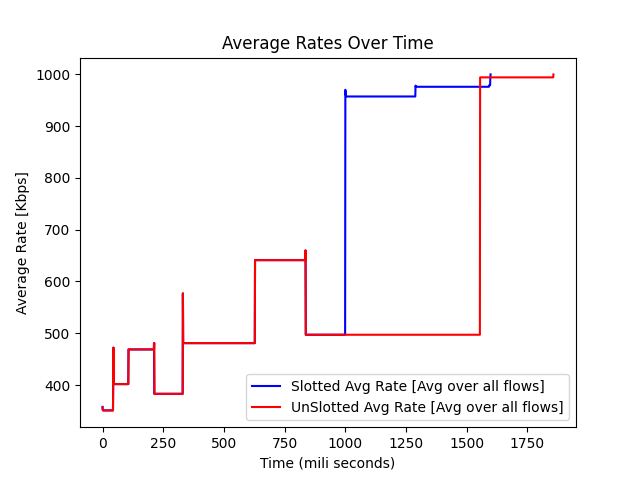
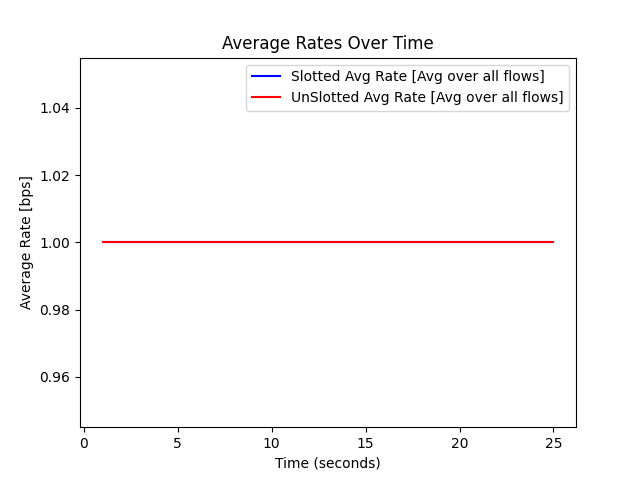
In this commit I have done the following: first,simulation is converted to work with time resolution, each time step simualte a graph transmit with duration of SimulatiomTimeResuliton, each hope in the graph is trasmiting as much as it can at a total length of the time  resolution, further more, the

diff --git a/DIAMOND/test/inference_vs_competitors_simple.py b/DIAMOND/test/inference_vs_competitors_simple.py
@@ -4,6 +4,7 @@ import os
 from datetime import datetime
 import shutil
 import matplotlib.pyplot as plt
+from scipy.interpolate import interp1d
 
 
 import sys
@@ -23,6 +24,12 @@ os.environ["PYTHONHASHSEED"] = str(SEED)
 if __name__ == "__main__":
     MODEL_PATH = os.path.join("DIAMOND", "pretrained", "model_20221113_212726_480.pt")
     reward_weights = dict(rate_weight=0.5, delay_weight=0, interference_weight=0, capacity_reduction_weight=0)
+
+    # ------------------------------------------------------------------------
+    Simulation_Time_Resolution = 1e-3       # miliseconds (i.e. each time step is a milisecond - this is the duration of each time step in [SEC])
+    BW_value_in_Hertz = 1#1e6                   # wanted BW in Hertz
+    slot_duration = 5                      # [SEC] 
+    Tot_num_of_timeslots = 5               # [num of time slots]
     #------------------------------------------------------------------------
 
     # # number of nodes
@@ -65,11 +72,12 @@ if __name__ == "__main__":
     #      (0.1, 0), (0.1, 0.01), (0.1, 0.02),
     #      (0.2, 0), (0.2, 0.01), (0.2, 0.02)]
    
-    P = [(0, 0), (0, 1), (0, 2),
-         (1, 0), (1, 1), (1, 2),
-         (2, 0), (2, 1), (2, 2)]
+    P = [(0, 0), (0, 100), (0, 200),
+         (100, 0), (100, 100), (100, 200),
+         (200, 0), (200, 100), (200, 200)]
+    
     # BW matrix
-    C = 1e3 * np.ones((N, N)) # in KiloHertz
+    C = BW_value_in_Hertz * np.ones((N, N)) * Simulation_Time_Resolution 
     #------------------------------------------------------------------------
 
 
@@ -78,15 +86,18 @@ if __name__ == "__main__":
 
     # flow demands in KiloByte
     F = [
-        {"source": 0, "destination": 8, "packets": 10 *1e3, "time_constrain": 10 , 'flow_idx': 0 },
-        {"source": 0, "destination": 7, "packets": 100 *1e3, "time_constrain": 10, 'flow_idx': 1}, #Packets [MegaBytes]
-        {"source": 0, "destination": 6, "packets": 500*1e3, "time_constrain": 10, 'flow_idx': 2}, #Packets [MegaBytes]
-        {"source": 0, "destination": 5, "packets": 1000*1e3, "time_constrain": 10, 'flow_idx': 3},
-        {"source": 0, "destination": 4, "packets": 700 *1e3, "time_constrain": 10 , 'flow_idx': 4 },
-        {"source": 0, "destination": 3, "packets": 300 *1e3, "time_constrain": 10, 'flow_idx': 5}, #Packets [MegaBytes]
-        {"source": 0, "destination": 2, "packets": 150*1e3, "time_constrain": 10, 'flow_idx': 6}, #Packets [MegaBytes]
-        {"source": 0, "destination": 1, "packets": 50*1e3, "time_constrain": 10, 'flow_idx': 7}
-    ]
+        {"source": 0, "destination": 8, "packets": 1000    , "time_constrain": 10 , 'flow_idx': 0 }  ]  
+    
+    # F = [
+    #     #{"source": 0, "destination": 8, "packets": 1000    *1e6, "time_constrain": 10 , 'flow_idx': 0 }#,
+    #     # {"source": 0, "destination": 7, "packets": 1000    *1e6, "time_constrain": 10, 'flow_idx': 1}#,         #Packets [in Bits]
+    #     # {"source": 0, "destination": 6, "packets": 500  *1e6, "time_constrain": 10, 'flow_idx': 2},         #Packets [in Bits]
+    #     # {"source": 0, "destination": 5, "packets": 1000 *1e6, "time_constrain": 10, 'flow_idx': 3},
+    #     # {"source": 0, "destination": 4, "packets": 700  *1e6, "time_constrain": 10 , 'flow_idx': 4 },
+    #     # {"source": 0, "destination": 3, "packets": 300  *1e6, "time_constrain": 10, 'flow_idx': 5},         #Packets [in Bits]
+    #     # {"source": 0, "destination": 2, "packets": 150  *1e6, "time_constrain": 10, 'flow_idx': 6},         #Packets [in Bits]
+    #     # {"source": 0, "destination": 1, "packets": 50   *1e6, "time_constrain": 10, 'flow_idx': 7}
+    # ]
 
     slotted_env = SlottedGraphEnvPower( adjacency_matrix=A,
                                         bandwidth_matrix=C,
@@ -96,13 +107,14 @@ if __name__ == "__main__":
                                         reward_weights=reward_weights,
                                         telescopic_reward = True,
                                         direction = 'minimize',
-                                        slot_duration = int(1 * 1e3),          # [in SEC ]
-                                        Tot_num_of_timeslots = 1000,         # [num of time slots]
+                                        slot_duration = int(slot_duration / Simulation_Time_Resolution),          # [in SEC ]
+                                        Tot_num_of_timeslots = Tot_num_of_timeslots,         # [num of time slots]
                                         render_mode = False,
                                         trx_power_mode='gain',
                                         channel_gain = 1,
                                         # channel_manual_gain = [100,200,3,400,500,600],
-                                        simualte_residauls = False)
+                                        simualte_residauls = True,
+                                        Simulation_Time_Resolution = Simulation_Time_Resolution)
 
     UNslotted_env = SlottedGraphEnvPower( adjacency_matrix=A,
                                         bandwidth_matrix=C,
@@ -112,13 +124,14 @@ if __name__ == "__main__":
                                         reward_weights=reward_weights,
                                         telescopic_reward = True,
                                         direction = 'minimize',
-                                        slot_duration=int(1000 * 1e3),          # [in SEC]
+                                        slot_duration = int( (slot_duration*Tot_num_of_timeslots) / Simulation_Time_Resolution),          # [in SEC]
                                         Tot_num_of_timeslots = 1, # [in Minutes]
                                         render_mode = False,
                                         trx_power_mode='gain',
                                         channel_gain = 1,
                                         # channel_manual_gain = [100,200,3,400,500,600],
-                                        simualte_residauls = False)    
+                                        simualte_residauls = False,
+                                        Simulation_Time_Resolution = Simulation_Time_Resolution)    
 
     slotted_diamond = SlottedDIAMOND(grrl_model_path=MODEL_PATH)
     
@@ -127,18 +140,41 @@ if __name__ == "__main__":
 
 
     # plot rates
-    time_axis = list(range(len(Tot_rates_sloted)))
+    time_axis_in_resulotion = [i * Simulation_Time_Resolution for i in range(1,len(Tot_rates_sloted)+1)] # This time axis is a samples of each Simulation_Time_Resolution
+    # we want to avarge rates so that we have time axis sampled in seconds (this way spike due to the residual will be smoothed)
+    time_axis_in_seconds = [i  for i in range(1,slot_duration*Tot_num_of_timeslots+1)]
+
+    interpolator_sloted = interp1d(time_axis_in_resulotion, Tot_rates_sloted, kind='linear')
+    Tot_rates_sloted_interpolated = interpolator_sloted(time_axis_in_seconds)
+
+    interpolator_unsloted = interp1d(time_axis_in_resulotion, Tot_rates_UNslotted, kind='linear')
+    Tot_rates_Unsloted_interpolated = interpolator_unsloted(time_axis_in_seconds)
+
     plt.figure()
-    plt.plot(time_axis[:], Tot_rates_sloted[:], linestyle='-', color='b', label='Slotted Avg Rate [Avg over all flows]')
-    plt.plot(time_axis[:], Tot_rates_UNslotted[:], linestyle='-', color='r', label='UnSlotted Avg Rate [Avg over all flows]')
+    plt.plot(time_axis_in_seconds, Tot_rates_sloted_interpolated, linestyle='-', color='b', label='Slotted Avg Rate [Avg over all flows]')
+    plt.plot(time_axis_in_seconds, Tot_rates_Unsloted_interpolated, linestyle='-', color='r', label='UnSlotted Avg Rate [Avg over all flows]')
     # Add labels and title
-    plt.xlabel('Time (mili seconds)')
-    plt.ylabel('Average Rate [Kbps]')
+    plt.xlabel('Time (seconds)')
+    plt.ylabel('Average Rate [bps]')
     plt.title('Average Rates Over Time')
     plt.legend()
 
     # Show the plot
     plt.savefig('average_rates_over_time.png')
+
+
+'''
+timing guide:
+working with resolution of seconds: 
+each time step is a second, if BW is in Hertz then capcaity is in bps, than the rate is in bps and time axis is in seconds
+
+working with resolution of miliseconds: 
+each time step is a milisecond, if BW is in Hertz need to divide BW with *1e3, then capcaity is in bps, than the rate is in bps and time axis is in miliseconds
+
+working with resolution of micro seoconds: 
+each time step is a microsecond, if BW is i Hertz need to devide it by *1e6 then capcaity is in bps, than the rate is in bps and time axis is in microseconds
+
+'''
 
 
 ''' 

diff --git a/DIAMOND/environment/slotted_graph_env_power.py b/DIAMOND/environment/slotted_graph_env_power.py
@@ -7,7 +7,7 @@ sys.path.insert(0, 'DIAMOND')
 import numpy as np
 from pprint import pprint
 from collections import Counter
-
+import warnings
 from environment.utils import get_k_paths, one_link_transmission, plot_graph, init_seed
 from names_generator import generate_name
 
@@ -31,6 +31,7 @@ class SlottedGraphEnvPower:
                  slot_duration = 60,          # [SEC]
                  Tot_num_of_timeslots = 60,   # [Minutes]
                  simualte_residauls = True,
+                 Simulation_Time_Resolution = 1e-3,
                  **kwargs):
         
         
@@ -99,6 +100,7 @@ class SlottedGraphEnvPower:
         
         self.render_mode = render_mode
         self.simualte_residauls = simualte_residauls
+        self.Simulation_Time_Resolution = Simulation_Time_Resolution
         # initialization once
         self.__create_graph()
         self.__calc_possible_actions()
@@ -139,10 +141,10 @@ class SlottedGraphEnvPower:
                     u,v = a['link']
                     if (u,v) in residual_dict:
                         flow_name =f"\n res: {a['residual_name']}(flow{a['flow_idx']})"
-                        residual_dict[(u,v)] += (flow_name + f"\n remaining packet: {round(a['packets'],2)} \n Avg. Rate: {round(self.routing_metrics['rate']['rate_per_flow'][a['flow_idx']][total_time_stemp_in_single_slot], 2)}")  
+                        residual_dict[(u,v)] += flow_name + f"\n remaining packet: {round(a['packets'],2)}"
                     else:
                         flow_name = f"\n res: {a['residual_name']}(flow{a['flow_idx']})"
-                        residual_dict.update({(u,v): flow_name + f"\n remaining packet: {round(a['packets'],2)} \n Avg. Rate: {round(self.routing_metrics['rate']['rate_per_flow'][a['flow_idx']][total_time_stemp_in_single_slot],2)}"})                         
+                        residual_dict.update({(u,v): flow_name + f"\n remaining packet: {round(a['packets'],2)}"})
             #add rates table to graph
             flow_rates = self.routing_metrics['rate']['rate_per_flow'][:,total_time_stemp_in_single_slot].tolist()    
             table_data = [[f"Flow {i}", f"{rate:.3f}"] for i, rate in enumerate(flow_rates)]        
@@ -175,7 +177,7 @@ class SlottedGraphEnvPower:
             for v in range(self.num_nodes):
                 if u != v:
                     if (u,v) in label_dict:
-                        label_dict[(u,v)] += (f"\n Capacity: {round(current_link_capacity_mat[u,v],2)}")
+                        label_dict[(u,v)] += (f"\n Capacity [bps]: {round(current_link_capacity_mat[u,v],2)/self.Simulation_Time_Resolution}")
 
 
 
@@ -188,7 +190,7 @@ class SlottedGraphEnvPower:
         #             if (u,v) in label_dict:
         #                 label_dict[(u,v)] += (f"\n Total channel Bandwidth: {bandwidth[u,v]}")
         
-        plot_graph(self.graph, self.graph_pos, label_dict,residual_dict, total_time_slots,table_data)
+        plot_graph(self.graph, self.graph_pos, label_dict,residual_dict, total_time_slots,table_data,self.Simulation_Time_Resolution)
         
     def gen_edge_data(self):
         self.eids = dict()
@@ -507,16 +509,20 @@ class SlottedGraphEnvPower:
             plot_rate = 1
             if total_time_slots == self.slot_duration-1: # last time step in time slot
                 self.residual_flows = next_flows_list
-        
+
+            # if any('residual_name' in d for d in active_links):
+            #     raise ValueError("----------At least one residual flow still contain in the graph, consider running longer slot duration-----------")           
+
             # update rate metric - find bottleneck rate for each flow
             for a in active_links:
-                flow_idx = a['flow_idx']
-                # if not flow_idx[1]: #TODO is this currect?
-                link_capacity = self.current_link_capacity[self.eids[a['link']]]
-                how_many_share_this_link_with_flow_idx = Counter(link['link'] for link in active_links if 'link' in link)[a['link']]
-                availible_resource = link_capacity / how_many_share_this_link_with_flow_idx
-                if self.routing_metrics['rate']['rate_per_flow'][flow_idx][self.total_time_stemp_in_single_slot] > availible_resource:
-                    self.routing_metrics['rate']['rate_per_flow'][flow_idx][self.total_time_stemp_in_single_slot] = availible_resource
+                if 'residual_name' not in a:
+                    flow_idx = a['flow_idx']
+                    # if not flow_idx[1]: #TODO is this currect?
+                    link_capacity = self.current_link_capacity[self.eids[a['link']]]
+                    how_many_share_this_link_with_flow_idx = Counter(link['link'] for link in active_links if 'link' in link)[a['link']]
+                    rate_in_bps = (link_capacity/self.Simulation_Time_Resolution) / how_many_share_this_link_with_flow_idx
+                    if self.routing_metrics['rate']['rate_per_flow'][flow_idx][self.total_time_stemp_in_single_slot] > rate_in_bps:
+                        self.routing_metrics['rate']['rate_per_flow'][flow_idx][self.total_time_stemp_in_single_slot] = rate_in_bps # this is the rate in a single time step (which how much packet were deliverd in a single time resolution)
 
         # update list for all links interefences in order to avarge later
         self.current_link_interference_list_4EachTimeStep.append(self.current_link_interference)
@@ -529,8 +535,8 @@ class SlottedGraphEnvPower:
                 self.routing_metrics['delay']['end_to_end_delay_per_flow'][flow_idx] += 1
 
         # 3. plot & reset & save interferences for next global step
-        if self.render_mode: 
-            self.show_graph(active_links, total_time_slots, plot_rate,self.total_time_stemp_in_single_slot)
+        # if self.render_mode: 
+            # self.show_graph(active_links, total_time_slots, plot_rate,self.total_time_stemp_in_single_slot)
         if next_active_links:
             #self.cumulative_link_interference += self.current_link_interference
             if np.mean(self.current_link_interference) > np.mean(self.cumulative_link_interference):
@@ -583,10 +589,19 @@ class SlottedGraphEnvPower:
 
         self.total_time_stemp_in_single_slot = 0
         metadata = []
+        if self.render_mode: 
+            if len(self.allocated) == len(self.flows): plot_rate = 1
+            self.show_graph(active_links, self.total_time_stemp_in_single_slot, plot_rate ,self.total_time_stemp_in_single_slot)                   
+    
         while True:
             # transmit single hop for all flows
             if self.total_time_stemp_in_single_slot < self.slot_duration: 
                 active_links, hop_metadata = self._transmit_singe_timestep(active_links, self.total_time_stemp_in_single_slot)
+                
+                if self.render_mode: 
+                    if len(self.allocated) == len(self.flows): plot_rate = 1
+                    self.show_graph(active_links, self.total_time_stemp_in_single_slot, plot_rate ,self.total_time_stemp_in_single_slot)
+                
                 metadata.append(hop_metadata)
                 self.total_time_stemp_in_single_slot += 1       
             else:
@@ -826,13 +841,15 @@ class SlottedGraphEnvPower:
             interference = self.edge_list_to_adj_mat(self.current_link_interference_list_4EachTimeStep[-1]) # take the last interference
         else: 
             interference = np.zeros((self.num_nodes,self.num_nodes))
-        
+        self.current_link_interference_list_4EachTimeStep = [] # reset for the next time slot
         # capacity
         #normalized_capacity = self.edge_list_to_adj_mat(self.current_link_capacity)
         if self.current_link_capacity_list_4EachTimeStep:
             normalized_capacity = self.edge_list_to_adj_mat(self.current_link_capacity_list_4EachTimeStep[-1]) # take the last capacity
         else: 
             normalized_capacity = np.zeros((self.num_nodes,self.num_nodes))            
+        self.current_link_capacity_list_4EachTimeStep = [] # reset for the next time slot
+
 
         if self.normalize_capacity:
             normalized_capacity = np.divide(normalized_capacity, self.bandwidth_matrix,

diff --git a/DIAMOND/environment/utils.py b/DIAMOND/environment/utils.py
@@ -321,8 +321,8 @@ def gen_grid_graph(n, special_edges_add=None, special_edges_remove=None):
 def shortest_path(G, s, d):
     return nx.shortest_path(G, source=s, target=d, weight='weight', method='dijkstra')
 
-def plot_graph(graph,graph_pos, labels,residual_label, total_time_slots,table_data):
-    column_labels = ["Flow", "Rate"]
+def plot_graph(graph,graph_pos, labels,residual_label, total_time_slots,table_data,Simulation_Time_Resolution):
+    column_labels = ["Flow", "Rate [bps]"]
 
     # plot
     plt.figure()
@@ -334,7 +334,7 @@ def plot_graph(graph,graph_pos, labels,residual_label, total_time_slots,table_da
     nx.draw_networkx_edge_labels(graph, graph_pos, edge_labels=labels, font_color='red',font_size=2.5, label_pos=0.3)
     #draw residual
     nx.draw_networkx_edge_labels(graph, graph_pos, edge_labels=residual_label, font_color='blue',font_size=2.5, label_pos=0.7)
-    comment = f"Time step [SEC]: {total_time_slots}"
+    comment = f"Time step [SEC]: {total_time_slots*Simulation_Time_Resolution}"
     plt.text(0.5, -0.1, comment, ha='center', va='center', transform=plt.gca().transAxes,fontsize=7)
     plt.savefig('graph.png',dpi=300)
     plt.close()

diff --git a/DIAMOND/stage1_grrl/agent.py b/DIAMOND/stage1_grrl/agent.py
@@ -86,7 +86,7 @@ class SlottedGRRL:
         :param path: path to pre-trained model
         """
         # Set the device
-        #self.device = torch.device("cuda:0" if torch.cuda.is_available else "cpu")
+        # self.device = torch.device("cuda:0" if torch.cuda.is_available else "cpu")
         self.device = torch.device('cpu')
         # set path
         self.path = path
@@ -145,7 +145,7 @@ class SlottedGRRL:
             for step in range(env.num_flows):
                 a = self._select_action(state, env.possible_actions[step])
                 # action = manual_actions[step]
-                action = [step, a] 
+                action = [0,0]#[step, a] 
                 actions.append(action)
                 paths.append(env.possible_actions[action[0]][action[1]])
                 state, r = env.step(action)
